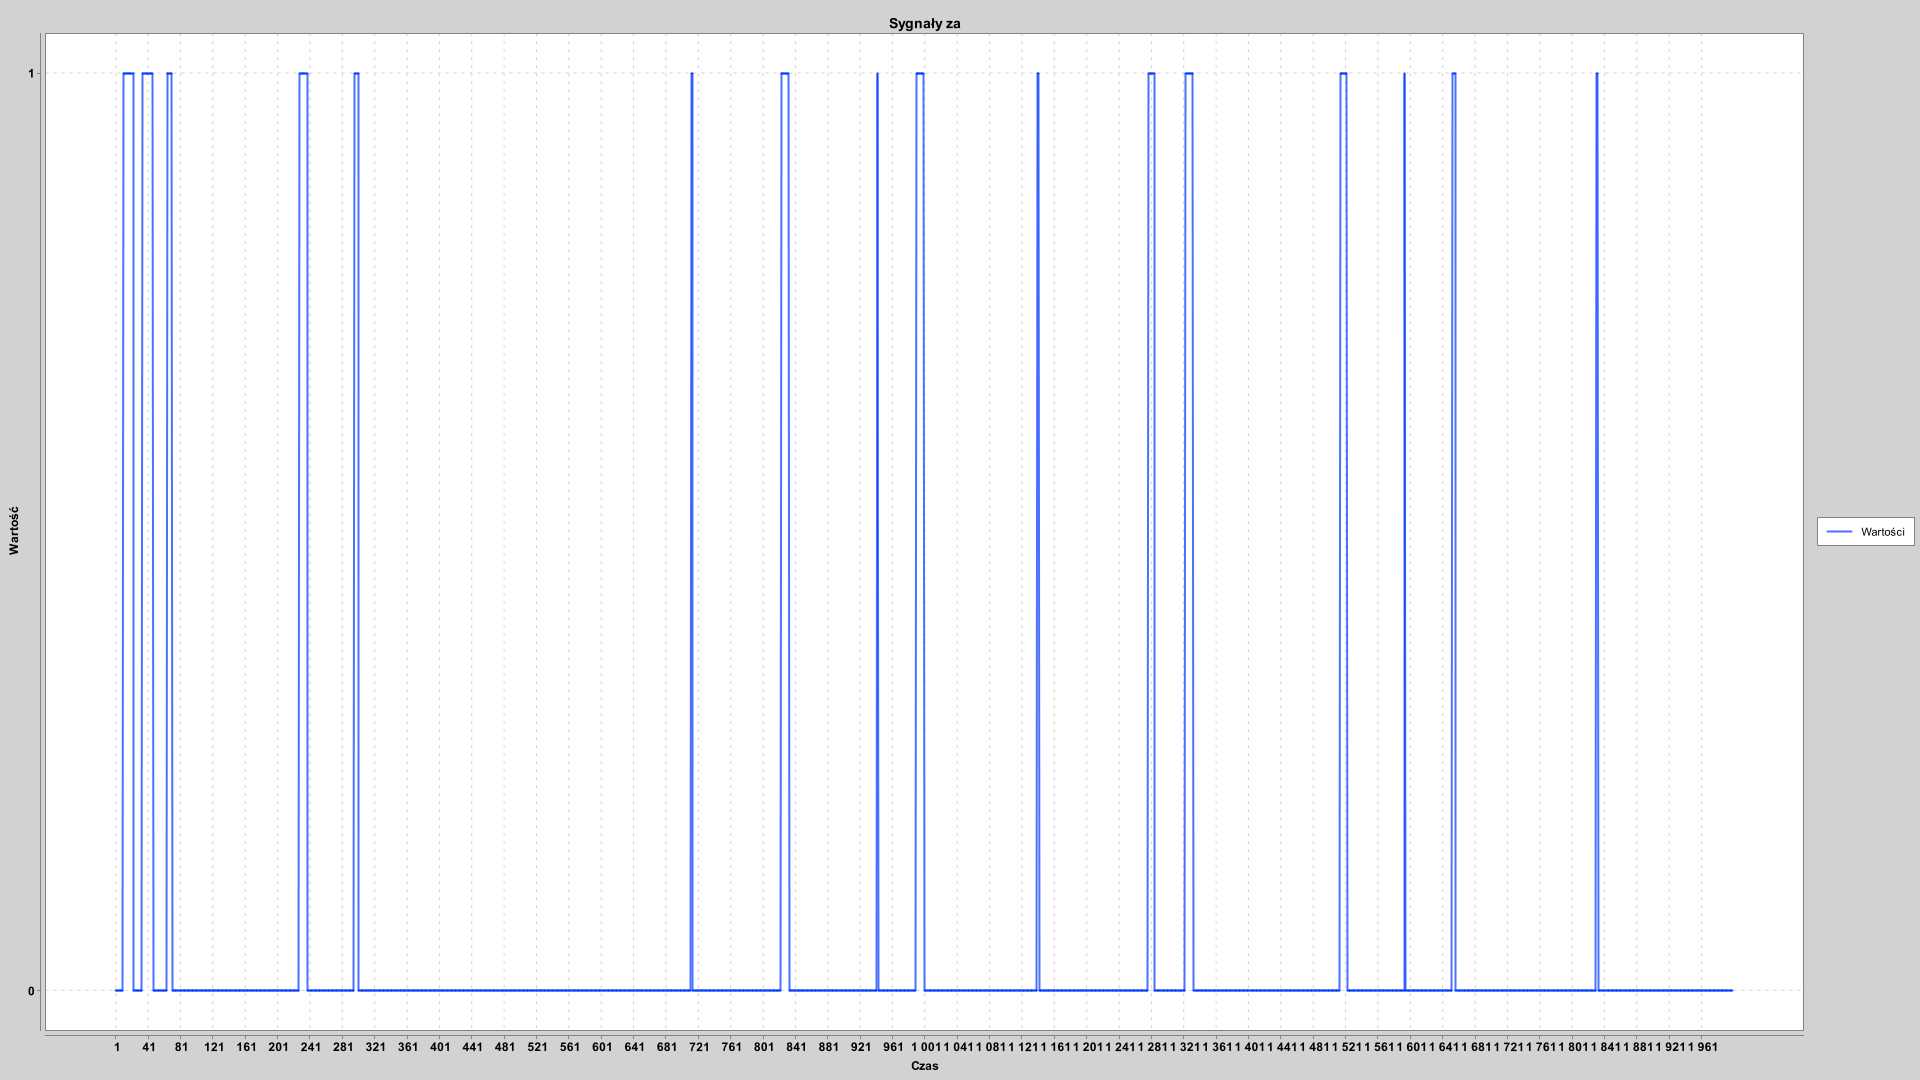
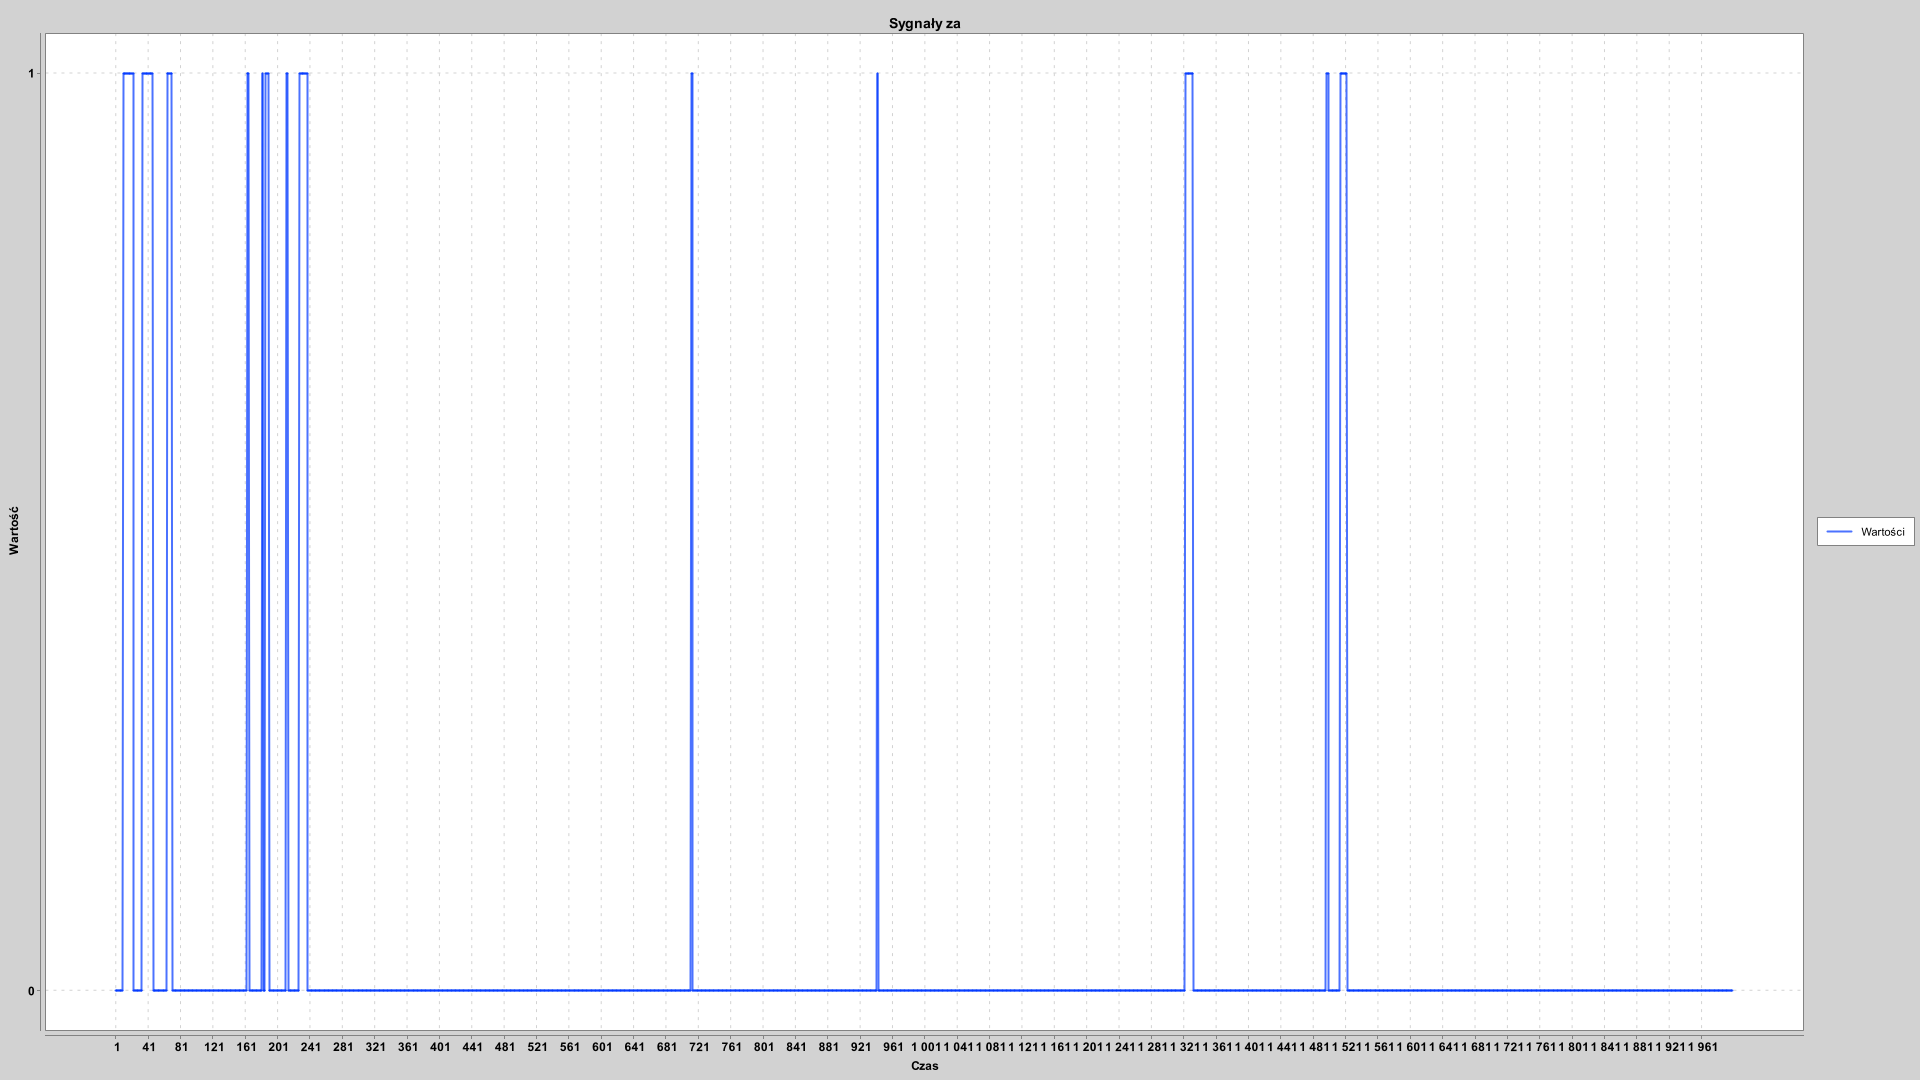
lab7

Changed region(s): [[0.125, 0.0611, 0.1875, 0.9167], [0.5938, 0.8861, 0.625, 0.9167], [0.4688, 0.8861, 0.5, 0.9167]]

diff --git a/src/Lab7/Main.java b/src/Lab7/Main.java
@@ -6,7 +6,6 @@ import org.knowm.xchart.XYChartBuilder;
 import org.knowm.xchart.style.markers.SeriesMarkers;
 
 import java.io.IOException;
-import java.time.Year;
 import java.util.*;
 
 import static java.lang.Math.PI;
@@ -14,7 +13,7 @@ import static java.lang.Math.sin;
 
 public class Main {
     public static double fs = 2000;
-    public static double tc = 1.0;
+    public static double tc = 6.0;
     public static int N = (int) (fs * tc);
     public static int w = 2;
     public static double a1 = 1;
@@ -55,31 +54,45 @@ public class Main {
         return result;
     }
 
-    public static List<Integer> askModulation (List<Integer> bits){
-        double tb = tc / bits.size();
-        double fn = w * (1 / tb);
-        int tbp = (int) (tb * fs);
+    public static List<Double> askModulation (List<Integer> bits){
+        Main.tb = tc / bits.size();
+        Main.fn = (1 / tb);
+        Main.tbp = (int) (tb * fs);
 
         double[] za = new double[N];
         int ofs = 0;
         for (int i = 0; i < bits.size(); i++) {
             int bitIndex = bits.get(i);
             for (int j = 0; j < tbp; j++) {
-                double t = (double) (i * ofs + j) / fs;
+                double t =(j + tbp*i)  / fs;
 
                 if (bitIndex == 1) {
-                    za[j + ofs] = a2 * sin(2 * PI * fn * t);
+                    za[j + ofs] = a1 * Math.sin(2 * PI * fn * t);
                 } else {
-                    za[j + ofs] = a1 * sin(2 * PI * fn * t);
+                    za[j + ofs] = a2 * Math.sin(2 * PI * fn * t);
                 }
             }
 
             ofs = ofs + tbp;
         }
 
+        return transmisionZad2(za, whiteNoise(za.length),8);
+//        return transmisionZad1(za, whiteNoise(za.length),8);
+    }
+
+    public static List<Double> transmisionZad1(double[] ASK, double[] whiteNoise, int alfa) {
+        List<Double> yASK = new ArrayList<>();
+        for (int i = 0; i < ASK.length; i++) {
+            yASK.add(ASK[i] + alfa * whiteNoise[i]);
+        }
+
+        return yASK;
+    }
+
+    public static List<Integer> demodulationASK(List<Double> za) {
         double[] zASK = new double[N];
         for (int i = 0; i < zASK.length; i++) {
-            zASK[i] = sin(2 * PI * fn * i / fs) * za[i];
+            zASK[i] =   za.get(i) * Math.sin(2 * PI * fn * i / fs) ;
         }
 
         double[] pASK = new double[N];
@@ -98,53 +111,58 @@ public class Main {
         for (int i = 0; i < tb*fs && i < N; i++) {
             h += pASK[i];
         }
-        h /= tb*fs;
+        h = 30;
 
         double[] cASK = new double[N];
         for (int i = 0; i < N; i++) {
             cASK[i] = pASK[i] > h ? 1 : 0;
         }
 
-        List<Integer> c = new ArrayList<>();
-        for (double v : cASK) {
-            c.add((int) v);
-        }
-
-        XYChart chartCASK = new XYChartBuilder().width(1920).height(1080).title("Sygnały za").xAxisTitle("Czas").yAxisTitle("Wartość").build();
-        chartCASK.addSeries("Wartości", null, cASK).setMarker(SeriesMarkers.NONE);
-
-        try {
-            BitmapEncoder.saveBitmap(chartCASK, "src/Lab7/ASK.png", BitmapEncoder.BitmapFormat.PNG);
-        } catch (IOException e) {
-            e.printStackTrace();
-        }
-
-        return c;
-    }
-
-    public static List<Double> transmisionZad1(List<Integer> ASK, double[] whiteNoise, int alfa) {
-        List<Double> yASK = new ArrayList<>();
-        for (int i = 0; i < ASK.size(); i++) {
-            yASK.add(ASK.get(i) + alfa * whiteNoise[i]);
-        }
-
-        return yASK;
-    }
-
-    public static List<Integer> demodulationASK(List<Double> yASK) {
         List<Integer> counterASK = new ArrayList<>();
         int oneCounterASK = 0;
         for (int i = 0; i < 84; i++) {
             for (int j = i*Main.tbp; j < Main.tbp+Main.tbp*i; j++) {
-                if (yASK.get(i) == 1) oneCounterASK++;
-            }
-            if (oneCounterASK >= Main.tbp/2-1) counterASK.add(1);
-            else counterASK.add(0);
 
+                if (cASK[j] == 1) oneCounterASK++;
+
+            }
+            if (oneCounterASK > Main.tbp/2-1) {
+                counterASK.add(1);
+            } else {counterASK.add(0);}
             oneCounterASK = 0;
         }
 
         return counterASK;
+    }
+
+    public static double bitErrorRate(List<Integer> codedBits, List<Integer> decodedBits) {
+        int error = 0;
+        for (int i = 0; i < codedBits.size(); i++) {
+            if(!Objects.equals(codedBits.get(i), decodedBits.get(i))){
+                error++;
+            }
+        }
+        return (double) error / codedBits.size();
+    }
+
+    public static List<Double> transmisionZad2(double[] ASK, double[] whiteNoise, int beta) {
+        List<Double> yASK = new ArrayList<>();
+        double[] e = new double[ASK.length];
+        for (int i = 0; i < ASK.length; i++) {
+            yASK.add(ASK[i] * Math.exp(-beta * i));
+            e[i] = Math.exp(-beta * i);
+        }
+
+        XYChart chartCASK = new XYChartBuilder().width(1920).height(1080).title("Sygnały za").xAxisTitle("Czas").yAxisTitle("Wartość").build();
+        chartCASK.addSeries("Wartości", null, e).setMarker(SeriesMarkers.NONE);
+
+        try {
+            BitmapEncoder.saveBitmap(chartCASK, "src/Lab7/Exp.png", BitmapEncoder.BitmapFormat.PNG);
+        } catch (IOException exception) {
+            exception.printStackTrace();
+        }
+
+        return yASK;
     }
 
     public static double[] whiteNoise(int length) {
@@ -203,18 +221,12 @@ public class Main {
         System.out.println();
         System.out.println("Coded bits: " + codedBits);
 
-        Main.tb = Main.tc / codedBits.size();
-        Main.fn = Main.w * (1 / Main.tb);
-        Main.tbp = (int) (tb * fs);
+        List<Double> ASK = askModulation(codedBits);
 
-        List<Integer> ASK = askModulation(codedBits);
-
-        double[] whiteNoise = whiteNoise(ASK.size());
-
-        List<Double> yASK = transmisionZad1(ASK, whiteNoise, 0);
-
+        List<Integer> demodulatedBits = demodulationASK(ASK);
         System.out.println();
-        System.out.println(demodulationASK(yASK));
+        System.out.println(demodulatedBits);
 
+        System.out.println(bitErrorRate(codedBits, demodulatedBits));
     }
 }
